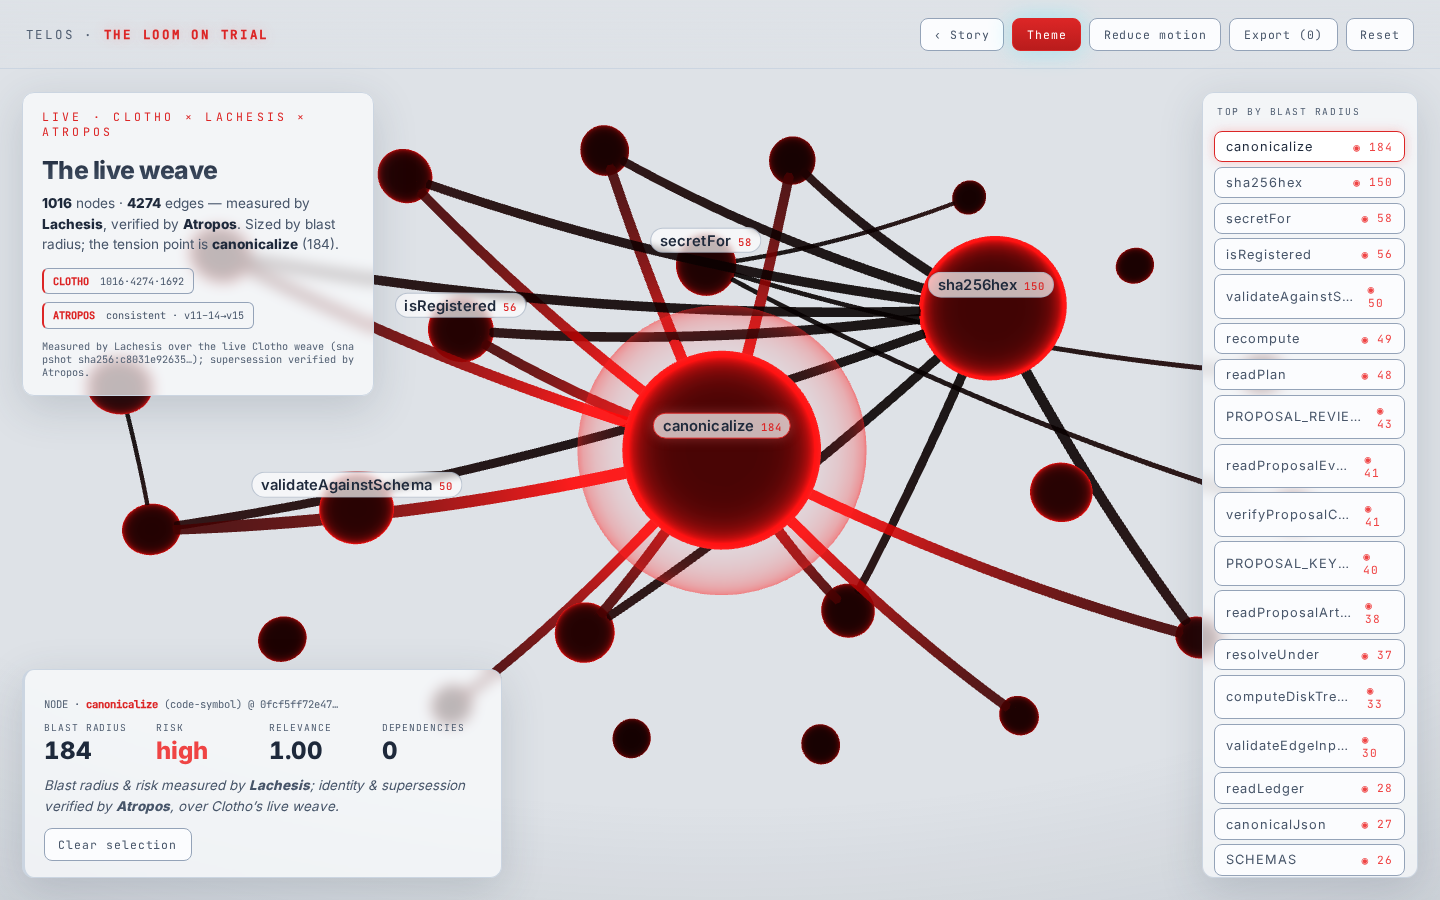
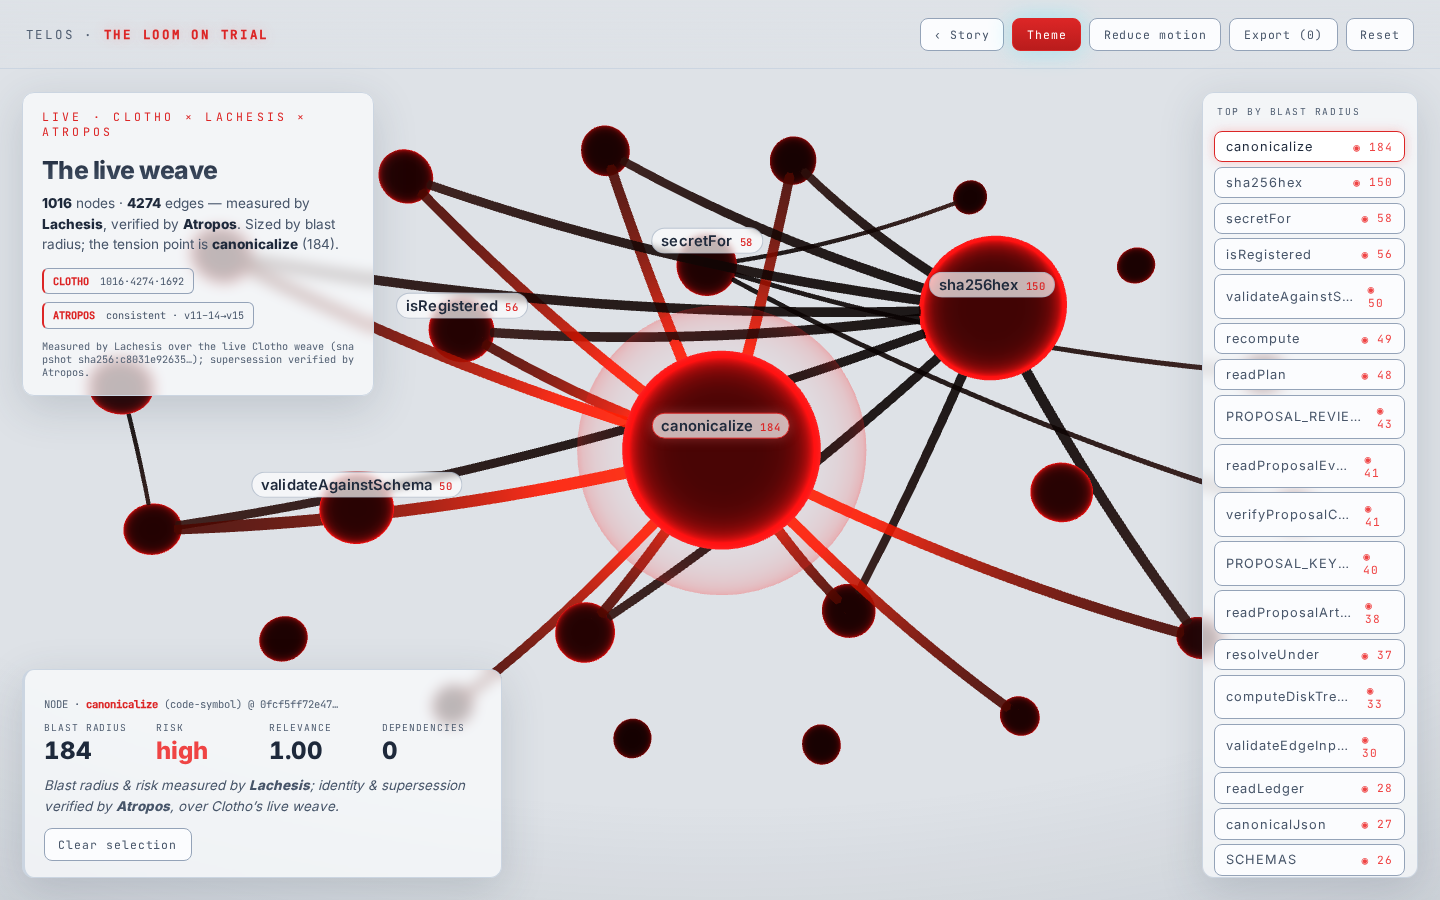
iliad(narcissus argo): reflection-loop pass 5 — label repulsion, warm light threads, story-loom tube parity
Final-grade pass: (1) LABEL<->LABEL COLLISION AVOIDANCE — deterministic repulsion between projected pill
rects (fixed order/iterations, no RNG; identical under ?e2e=1) — hub-cluster labels nudge apart at all
rotation phases; (2) LIGHT-THEME THREADS warmed (#c2410c hub / #9a5b4f minor, theme-aware uniforms) — sit
softer on light grey; 07 re-shot with the pressed-Theme-chip fix in frame; (3) STORY-LOOM PARITY — warp
threads are now round TUBES with a catenary bow on the current band (tension bows it forward; pulled state
deepens the bow) — both views share the full woven-thread material language; 06 re-shot. No chunk changes
(nothing cheap surfaced). All gates green (tsc+vite, coverage 16/16, evidence 7, E2E 14/14); paint/DOM-
shadowed/?e2e=1/true numbers intact.

diff --git a/narcissus/flagship/src/components/LiveGraph.tsx b/narcissus/flagship/src/components/LiveGraph.tsx
@@ -28,8 +28,8 @@ const shellFrag = /* glsl */`
     gl_FragColor = vec4(uColor * 2.2, fres * pulse * 0.85);
   }`;
 
-function Graph({ selectedNodeId, reducedMotion, labelHost }: {
-  selectedNodeId: string | null; reducedMotion: boolean; labelHost: React.RefObject<HTMLDivElement>;
+function Graph({ selectedNodeId, reducedMotion, labelHost, theme }: {
+  selectedNodeId: string | null; reducedMotion: boolean; labelHost: React.RefObject<HTMLDivElement>; theme: "dark" | "light";
 }) {
   const group = useRef<THREE.Group>(null);
   const hubId = NODES_BY_BLAST[0].id;
@@ -91,10 +91,15 @@ function Graph({ selectedNodeId, reducedMotion, labelHost }: {
     const t = state.clock.elapsedTime;
     for (const id in materials) materials[id].uniforms.uTime.value = t;
     shellMat.uniforms.uTime.value = t;
-    // selection drama: connected threads brighten, unrelated dim
+    // selection drama: connected threads brighten, unrelated dim. Theme-aware thread color:
+    // light theme gets a WARMER dark-red so threads sit softer on the light grey.
     for (const th of threads) {
       const connected = selectedNodeId && (th.from === selectedNodeId || th.to === selectedNodeId);
       th.mat.uniforms.uBoost.value = selectedNodeId ? (connected ? 2.4 : 0.45) : 1;
+      const isHubThread = th.to === hubId || th.from === hubId;
+      th.mat.uniforms.uColor.value.set(
+        theme === "light" ? (isHubThread ? "#c2410c" : "#9a5b4f") : (isHubThread ? "#b91c1c" : "#7f1d1d"),
+      );
     }
     if (!reducedMotion && group.current) {
       group.current.rotation.y = Math.sin(t * 0.09) * 0.22;
@@ -104,17 +109,34 @@ function Graph({ selectedNodeId, reducedMotion, labelHost }: {
     const host = labelHost.current;
     if (host && group.current) {
       const v = new THREE.Vector3();
+      // 1st pass: project + clamp inward (away from HUD panels / viewport edges)
+      const placed: { el: HTMLElement; x: number; y: number; w: number }[] = [];
       for (const id of LABELED_IDS) {
         const el = host.querySelector<HTMLElement>(`[data-label="${id}"]`);
         const p = LAYOUT[id];
         if (!el || !p) continue;
         v.set(p[0], p[1], p[2]).applyMatrix4(group.current.matrixWorld).project(state.camera);
-        // clamp inward so labels never sit under the HUD panels or clip the viewport edge
         const x = Math.max(16, Math.min(83, (v.x * 0.5 + 0.5) * 100));
         const y = Math.max(9, Math.min(88, (-v.y * 0.5 + 0.5) * 100));
-        el.style.left = `${x}%`;
-        el.style.top = `${y}%`;
+        placed.push({ el, x, y, w: 3.2 + (nodeById(id)!.label.length * 0.62) }); // est. width in vw
       }
+      // 2nd pass: deterministic label<->label repulsion — fixed order (LABELED_IDS), fixed iterations,
+      // no RNG, so identical state projects identically under ?e2e=1.
+      for (let iter = 0; iter < 3; iter++) {
+        for (let i = 0; i < placed.length; i++) {
+          for (let j = i + 1; j < placed.length; j++) {
+            const a = placed[i], b = placed[j];
+            const dx = Math.abs(a.x - b.x), dy = Math.abs(a.y - b.y);
+            const minX = (a.w + b.w) / 2, minY = 4.6; // pill height ≈ 4.6% viewport
+            if (dx < minX && dy < minY) {
+              const push = (minY - dy) / 2 + 0.3;
+              if (a.y <= b.y) { a.y = Math.max(9, a.y - push); b.y = Math.min(88, b.y + push); }
+              else { a.y = Math.min(88, a.y + push); b.y = Math.max(9, b.y - push); }
+            }
+          }
+        }
+      }
+      for (const p of placed) { p.el.style.left = `${p.x}%`; p.el.style.top = `${p.y}%`; }
     }
   });
 
@@ -154,7 +176,7 @@ export function LiveGraphCanvas({ selectedNodeId, reducedMotion, theme }: {
         <ambientLight intensity={0.4} />
         <pointLight position={[0, 0, 9]} intensity={80} color="#ef4444" distance={44} />
         <pointLight position={[-8, 6, 5]} intensity={24} color="#00e5ff" distance={34} />
-        <Graph selectedNodeId={selectedNodeId} reducedMotion={reducedMotion} labelHost={labelHost} />
+        <Graph selectedNodeId={selectedNodeId} reducedMotion={reducedMotion} labelHost={labelHost} theme={theme} />
       </Canvas>
       {/* HTML label overlays — pixel-crisp type, positioned from projected 3D coords; PAINT ONLY */}
       <div ref={labelHost} className="gl-labels" aria-hidden="true">

diff --git a/narcissus/flagship/src/components/Loom.tsx b/narcissus/flagship/src/components/Loom.tsx
@@ -25,6 +25,8 @@ function Warp({ stationIndex, threadPulled, reducedMotion }: {
     group.current.position.y = Math.sin(state.clock.elapsedTime * 0.2) * 0.05;
   });
   const threads = [];
+  // warp threads as round TUBES with a gentle catenary bow toward the viewer on the current band —
+  // the same woven-thread material language as the live-graph view (parity).
   for (let i = 0; i < N; i++) {
     const x = (i - N / 2) * 0.42;
     const band = Math.floor((i / N) * STATION_COUNT);
@@ -32,9 +34,16 @@ function Warp({ stationIndex, threadPulled, reducedMotion }: {
     const color = isCurrent ? "#ef4444" : band < stationIndex ? "#7f1d1d" : "#1f2a3d";
     const h = isCurrent && threadPulled ? 10.5 : 7.6 + ((i * 37) % 7) * 0.12;
     const z = -2.4 - (i % 4) * 0.55;
+    const bow = isCurrent ? (threadPulled ? 0.85 : 0.4) : 0.12; // tension bows the current band forward
+    const curve = new THREE.QuadraticBezierCurve3(
+      new THREE.Vector3(x, -h / 2, z),
+      new THREE.Vector3(x, 0, z + bow),
+      new THREE.Vector3(x, h / 2, z),
+    );
+    const radius = isCurrent ? 0.028 : 0.016;
     threads.push(
-      <mesh key={i} position={[x, 0, z]}>
-        <boxGeometry args={[0.022, h, 0.022]} />
+      <mesh key={i}>
+        <tubeGeometry args={[curve, 16, radius, 6, false]} />
         <meshStandardMaterial
           color={color}
           emissive={color}